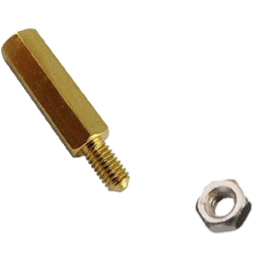
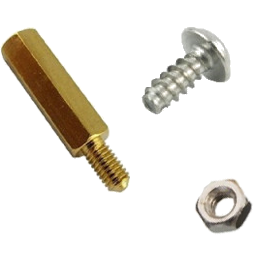
Repo update

Changed region(s): [[0.5312, 0.0938, 0.9062, 0.4688]]

diff --git a/README.md b/README.md
@@ -145,7 +145,13 @@ Before we start the assembly of the mini-computer, see all the components we wil
     <tr>
         <td><img src="This-Repository/c-m3-spacer-1.png" width="64px" height="64px"></td>
         <td>4x</td>
-        <td>15mm Female-Male M3 Spacers With Nut</td>
-        <td>These spacers will be used to fix the first Universal PCB on the Case or Base you have chosen.</td>
+        <td>15mm Female-Male M3 Spacers With Screw and Nut</td>
+        <td>These spacers will be used to fix the first Universal PCB floor on the Case or Base you have chosen. Maybe you need to make 4 holes (with a drill) on the first floor of PCBs so you can attach the PCB in the spacer.</td>
+    </tr>
+    <tr>
+        <td><img src="This-Repository/c-m3-spacer-2.png" width="64px" height="64px"></td>
+        <td>8x</td>
+        <td>20mm Female-Male M3 Spacers With Screw and Nut</td>
+        <td>These spacers will be used to fix the first PCB floor to the second floor of PCB and the second floor of PCB to the third PCB floor. Depending on the Universal PCB you have chosen, you might need to use a drill to widen their gap holes a little.</td>
     </tr>
 </table>
